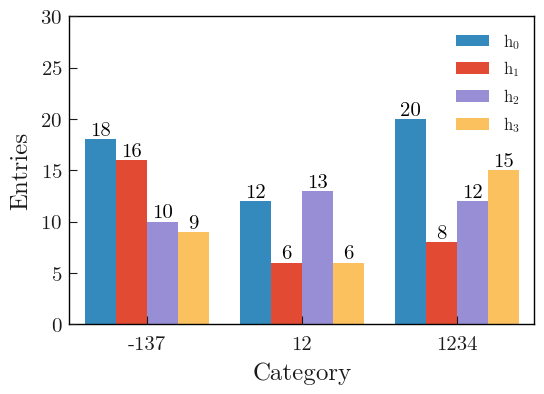
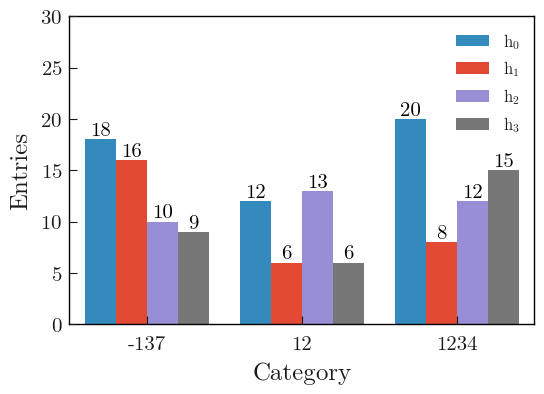
fix: readd mypy and fix all the errors raised by mypy in the examples

diff --git a/tests/test_variable_registry.py b/tests/test_variable_registry.py
@@ -57,7 +57,7 @@ def test_variable_registry_info() -> None:
         assert registry == {
             "name": key,
             "bins": 50,
-            "range": ["min", "max"],
+            "range": ("min", "max"),
             "label": key,
             "log": False,
             "legend_location": "best",
@@ -75,7 +75,7 @@ def test_variable_registry_info() -> None:
         assert registry == {
             "name": key,
             "bins": 50,
-            "range": ["min", "max"],
+            "range": ("min", "max"),
             "label": key,
             "log": False,
             "legend_location": "best",
@@ -130,7 +130,7 @@ def test_update_variable_registry_ranges() -> None:
     create_variable_registry(
         variable_keys,
         path=registry_path,
-        custom_dict={"bins": 50, "range": [-1, 1]},
+        custom_dict={"bins": 50, "range": (-1, 1)},
         reset=True,
     )
 
@@ -144,7 +144,7 @@ def test_update_variable_registry_ranges() -> None:
     create_variable_registry(
         variable_keys,
         path=registry_path,
-        custom_dict={"name": "test", "range": [-1, 1]},
+        custom_dict={"name": "test", "range": (-1, 1)},
         reset=True,
     )
 
@@ -163,28 +163,28 @@ def test_update_variable_registry_ranges() -> None:
     for key in variable_keys:
         registry = get_variable_from_registry(key, path=registry_path)
         if key == "variable_0":
-            assert registry["range"] == [-10.55227774892869, 10.04658448558009]
+            assert registry["range"] == (-10.55227774892869, 10.04658448558009)
         elif key == "variable_1":
-            assert registry["range"] == [-9.32198527389102, 10.320677227899562]
+            assert registry["range"] == (-9.32198527389102, 10.320677227899562)
         elif key == "variable_2":
-            assert registry["range"] == [-17.983319077507936, 16.84354525625102]
+            assert registry["range"] == (-17.983319077507936, 16.84354525625102)
 
     # Change range value by hand for variable_0
     registry = get_variable_from_registry("variable_0", path=registry_path)
-    registry["range"] = [-1, 1]
+    registry["range"] = (-1, 1)
     with open(registry_path, "w") as f:
         yaml.safe_dump({"variable_0": registry}, f, sort_keys=False)
         f.write("\n" * 2)
 
     # Check the new value
     registry = get_variable_from_registry("variable_0", path=registry_path)
-    assert registry["range"] == [-1, 1]
+    assert registry["range"] == (-1, 1)
 
     # Range values shouldn't be updated as overwrite=False
     update_variable_registry_ranges(df, ["variable_0"], path=registry_path)
 
     registry = get_variable_from_registry("variable_0", path=registry_path)
-    assert registry["range"] == [-1, 1]
+    assert registry["range"] == (-1, 1)
 
     # Range values should be updated as overwrite=True
     update_variable_registry_ranges(
@@ -192,37 +192,37 @@ def test_update_variable_registry_ranges() -> None:
     )
 
     registry = get_variable_from_registry("variable_0", path=registry_path)
-    assert registry["range"] == [-10.55227774892869, 10.04658448558009]
+    assert registry["range"] == (-10.55227774892869, 10.04658448558009)
 
     # Same tests as above but with update_variable_registry() function
     update_variable_registry(
-        {"range": [-1, 1]},
+        {"range": (-1, 1)},
         ["variable_0"],
         path=registry_path,
     )
 
     registry = get_variable_from_registry("variable_0", path=registry_path)
-    assert registry["range"] == [-10.55227774892869, 10.04658448558009]
+    assert registry["range"] == (-10.55227774892869, 10.04658448558009)
 
     update_variable_registry(
-        {"range": [-1, 1]},
+        {"range": (-1, 1)},
         ["variable_0"],
         path=registry_path,
         overwrite=True,
     )
 
     registry = get_variable_from_registry("variable_0", path=registry_path)
-    assert registry["range"] == [-1, 1]
+    assert registry["range"] == (-1, 1)
 
     update_variable_registry(
-        {"range": [-2, 2]},
+        {"range": (-2, 2)},
         None,
         path=registry_path,
         overwrite=True,
     )
 
     registry = get_variable_from_registry("variable_0", path=registry_path)
-    assert registry["range"] == [-2, 2]
+    assert registry["range"] == (-2, 2)
 
     os.remove(registry_path)
 
@@ -249,7 +249,7 @@ def test_updating_variable_registry() -> None:
         assert registry == {
             "name": key,
             "bins": 50,
-            "range": ["min", "max"],
+            "range": ("min", "max"),
             "label": key,
             "log": False,
             "legend_location": "best",

diff --git a/src/plothist/plotters.py b/src/plothist/plotters.py
@@ -794,11 +794,13 @@ def _get_model_type(components: list) -> str:
 
 def plot_model(
     stacked_components: list[bh.Histogram] | None = None,
-    stacked_labels: list[str | None] | None = None,
-    stacked_colors: list[str | None] | None = None,
+    stacked_labels: list[str] | None = None,
+    stacked_colors: list[str] | list[tuple[float, float, float]] | None = None,
     unstacked_components: list[bh.Histogram] | None = None,
-    unstacked_labels: list[str | None] | None = None,
-    unstacked_colors: list[str | None] | None = None,
+    unstacked_labels: list[str] | list[None] | None = None,
+    unstacked_colors: (
+        list[str] | list[tuple[float, float, float]] | list[None] | None
+    ) = None,
     xlabel: str | None = None,
     ylabel: str | None = None,
     stacked_kwargs: dict | None = None,
@@ -817,15 +819,15 @@ def plot_model(
     ----------
     stacked_components : list[bh.Histogram] | None, optional
         The list of histograms to be stacked composing the model. Default is None.
-    stacked_labels : list[str | None] | None, optional
+    stacked_labels : list[str] | None, optional
         The labels of the model stacked components. Default is None.
-    stacked_colors : list[str | None] | None, optional
+    stacked_colors : list[str] | None, optional
         The colors of the model stacked components. Default is None.
     unstacked_components : list[bh.Histogram] | None, optional
         The list of histograms not to be stacked composing the model. Default is None.
-    unstacked_labels : list[str | None] | None, optional
+    unstacked_labels : list[str] | list[None] | None, optional
         The labels of the model unstacked components. Default is None.
-    unstacked_colors : list[str | None] | None, optional
+    unstacked_colors : list[str] | list[tuple[float, float, float]] | list[None] | None, optional
         The colors of the model unstacked components. Default is None.
     xlabel : str | None, optional
         The label for the x-axis. Default is None.
@@ -1012,11 +1014,11 @@ def plot_model(
 def plot_data_model_comparison(
     data_hist: bh.Histogram,
     stacked_components: list[bh.Histogram] | None = None,
-    stacked_labels: list[str | None] | None = None,
-    stacked_colors: list[str | None] | None = None,
+    stacked_labels: list[str] | None = None,
+    stacked_colors: list[str] | list[tuple[float, float, float]] | None = None,
     unstacked_components: list[bh.Histogram] | None = None,
-    unstacked_labels: list[str | None] | None = None,
-    unstacked_colors: list[str | None] | None = None,
+    unstacked_labels: list[str] | None = None,
+    unstacked_colors: list[str] | list[tuple[float, float, float]] | None = None,
     xlabel: str | None = None,
     ylabel: str | None = None,
     data_label: str = "Data",
@@ -1041,15 +1043,15 @@ def plot_data_model_comparison(
         The histogram for the data.
     stacked_components : list[bh.Histogram] | None, optional
         The list of histograms to be stacked composing the model. Default is None.
-    stacked_labels : list[str | None] | None, optional
+    stacked_labels : list[str] | None, optional
         The labels of the model stacked components. Default is None.
-    stacked_colors : list[str | None] | None, optional
+    stacked_colors : list[str] | None, optional
         The colors of the model stacked components. Default is None.
     unstacked_components : list[bh.Histogram] | None, optional
         The list of histograms not to be stacked composing the model. Default is None.
-    unstacked_labels : list[str | None] | None, optional
+    unstacked_labels : list[str] | None, optional
         The labels of the model unstacked components. Default is None.
-    unstacked_colors : list[str | None] | None, optional
+    unstacked_colors : list[str] | None, optional
         The colors of the model unstacked components. Default is None.
     xlabel : str | None, optional
         The label for the x-axis. Default is None.

diff --git a/src/plothist/variable_registry.py b/src/plothist/variable_registry.py
@@ -127,7 +127,7 @@ def create_variable_registry(
                             variable_key: {
                                 "name": variable_key,
                                 "bins": 50,
-                                "range": ["min", "max"],
+                                "range": ("min", "max"),
                                 "label": variable_key,
                                 "log": False,
                                 "legend_location": "best",
@@ -168,6 +168,10 @@ def get_variable_from_registry(
 
     with open(path) as f:
         variable_registry = yaml.safe_load(f)
+        if "range" in variable_registry[variable_key]:
+            variable_registry[variable_key]["range"] = tuple(
+                variable_registry[variable_key]["range"]
+            )
         return variable_registry[variable_key]
 
 
@@ -271,7 +275,7 @@ def update_variable_registry_ranges(
     path : str, optional
         The path to the variable registry file (default is "./variable_registry.yaml").
     overwrite : bool, optional
-        If True, the range parameters will be overwrite even if it's not equal to ["min", "max"] (default is False).
+        If True, the range parameters will be overwrite even if it's not equal to ("min", "max") (default is False).
 
     Returns
     -------
@@ -296,13 +300,13 @@ def update_variable_registry_ranges(
                 f"Variable {variable_key} does not have a name, bins or range property in the registry {path}."
             )
 
-        range = ["min", "max"] if overwrite else variable["range"]
+        range = ("min", "max") if overwrite else variable["range"]
 
-        if range == ["min", "max"]:
+        if tuple(range) == ("min", "max"):
             axis = create_axis(variable["bins"], tuple(range), data[variable["name"]])
             if isinstance(axis, bh.axis.Regular):
                 update_variable_registry(
-                    {"range": [float(axis.edges[0]), float(axis.edges[-1])]},
+                    {"range": (float(axis.edges[0]), float(axis.edges[-1]))},
                     [variable_key],
                     path=path,
                     overwrite=True,

diff --git a/src/plothist/histogramming.py b/src/plothist/histogramming.py
@@ -1,6 +1,7 @@
 from __future__ import annotations
 
 import warnings
+from collections.abc import Sequence
 from typing import Callable
 
 import boost_histogram as bh
@@ -171,7 +172,7 @@ def make_hist(
 
 def make_2d_hist(
     data: list[np.ndarray] | np.ndarray | None = None,
-    bins: tuple[int | list[float], int | list[float]] = (10, 10),
+    bins: Sequence[int | Sequence[float]] | None = None,
     range: tuple[
         tuple[float | str, float | str] | None, tuple[float | str, float | str] | None
     ] = (None, None),
@@ -185,8 +186,8 @@ def make_2d_hist(
     data : list[np.ndarray] or np.ndarray, optional
         2D array-like data used to fill the histogram (default is None).
         If None is provided, an empty histogram is returned.
-    bins : tuple[int | list[float], int | list[float]], optional
-        Binning specification for each dimension of the histogram (default is (10, 10)).
+    bins : Sequence[int | Sequence[float]], optional
+        Binning specification for each dimension of the histogram (if None, it will be set to [10, 10]).
         Each element of the tuple represents the number of bins for the corresponding dimension.
         Also support explicit bin edges specification (for non-constant bin size).
     range : tuple[tuple[float | str, float | str] | None, tuple[float | str, float | str] | None], optional
@@ -219,6 +220,8 @@ def make_2d_hist(
         raise ValueError("data should have two components, x and y")
     if len(data[0]) != len(data[1]):
         raise ValueError("x and y must have the same length.")
+    if bins is None:
+        bins = [10, 10]
 
     x_axis = create_axis(bins[0], range[0], data[0])
     y_axis = create_axis(bins[1], range[1], data[1])

diff --git a/tests/test_plotters.py b/tests/test_plotters.py
@@ -41,7 +41,7 @@ def test_partial_fig_and_ax_input() -> None:
     """
     fig, _ = plt.subplots()
     h_1d = make_hist(data=[], bins=10, range=(0, 10))
-    h_2d = make_2d_hist(data=[[], []], bins=[10, 10], range=[[0, 10], [0, 10]])
+    h_2d = make_2d_hist(data=[[], []], bins=[10, 10], range=((0, 10), (0, 10)))
 
     msg = r"Need to provide fig, ax"
 
@@ -101,7 +101,7 @@ def test_plot_2d_hist_with_projections_cases() -> None:
     """
     Test that plot_2d_hist_with_projections can handle empty data and no input figure.
     """
-    h_2d = make_2d_hist(data=[[], []], bins=[10, 10], range=[[0, 10], [0, 10]])
+    h_2d = make_2d_hist(data=[[], []], bins=[10, 10], range=((0, 10), (0, 10)))
     fig, _, _, _, _ = plot_2d_hist_with_projections(
         h_2d,
     )

diff --git a/src/plothist/examples/advanced/asymmetry_comparison_advanced.py b/src/plothist/examples/advanced/asymmetry_comparison_advanced.py
@@ -38,7 +38,7 @@ category = "category"
 
 x1 = df[name][df[category] == 5]
 
-x_range = [-9, 9]
+x_range = (-9, 9)
 
 # Create the histograms used as data
 h1 = make_hist(x1 - 2.5, bins=50, range=x_range)
@@ -73,12 +73,16 @@ marker_2 = {
 plot_error_hist(
     h1,
     ax_main,
+    uncertainty_type="symmetrical",
+    density=False,
     **marker_1,
 )
 
 plot_error_hist(
     h2,
     ax_main,
+    uncertainty_type="symmetrical",
+    density=False,
     **marker_2,
 )
 

diff --git a/src/plothist/examples/advanced/1d_side_by_side_with_numbers.py b/src/plothist/examples/advanced/1d_side_by_side_with_numbers.py
@@ -31,8 +31,7 @@ histos = [bh.Histogram(axis, storage=bh.storage.Weight()) for _ in range(len(dat
 histos = [histo.fill(data[i]) for i, histo in enumerate(histos)]
 
 labels = [f"$h_{{{i}}}$" for i in range(len(histos))]
-colors = get_color_palette("ggplot", 5)
-colors = colors[:3] + [colors[4]]
+colors = get_color_palette("ggplot", 4)
 
 # Plot the histogram
 fig, ax = plt.subplots()

diff --git a/src/plothist/examples/model_ex/model_with_stacked_and_unstacked_function_components.py b/src/plothist/examples/model_ex/model_with_stacked_and_unstacked_function_components.py
@@ -6,7 +6,7 @@ Plot a model with stacked and unstacked functional components.
 """
 
 key = "variable_1"
-range = [-9, 12]
+range = (-9, 12)
 
 background_categories = [0, 1, 2]
 background_categories_labels = [f"c{i}" for i in background_categories]

diff --git a/src/plothist/examples/advanced/1d_comparison_advanced.py b/src/plothist/examples/advanced/1d_comparison_advanced.py
@@ -27,7 +27,7 @@ x2 = df[name][df[category] == 4]
 x3 = df[name][df[category] == 3]
 x4 = df[name][df[category] == 5]
 
-x_range = [-9, 9]
+x_range = (-9, 9)
 
 h1 = make_hist(x3, bins=50, range=x_range)
 h2 = make_hist(x4, bins=50, range=x_range)

diff --git a/src/plothist/examples/utility/color_palette_hists.py b/src/plothist/examples/utility/color_palette_hists.py
@@ -15,7 +15,7 @@ from plothist import add_text, get_color_palette, make_hist, plot_error_hist, pl
 
 # Define the histograms
 key = "variable_1"
-xrange = [-8, 10]
+xrange = (-8, 10)
 category = "category"
 
 # Define masks

diff --git a/src/plothist/examples/model_ex/model_all_comparisons.py b/src/plothist/examples/model_ex/model_all_comparisons.py
@@ -14,7 +14,7 @@ from plothist import get_color_palette, make_hist
 # Define the histograms
 
 key = "variable_1"
-range = [-9, 12]
+range = (-9, 12)
 category = "category"
 
 # Define masks

diff --git a/src/plothist/examples/model_ex/model_all_comparisons_no_model_unc.py b/src/plothist/examples/model_ex/model_all_comparisons_no_model_unc.py
@@ -14,7 +14,7 @@ from plothist import get_color_palette, make_hist
 # Define the histograms
 
 key = "variable_1"
-range = [-9, 12]
+range = (-9, 12)
 category = "category"
 
 # Define masks
